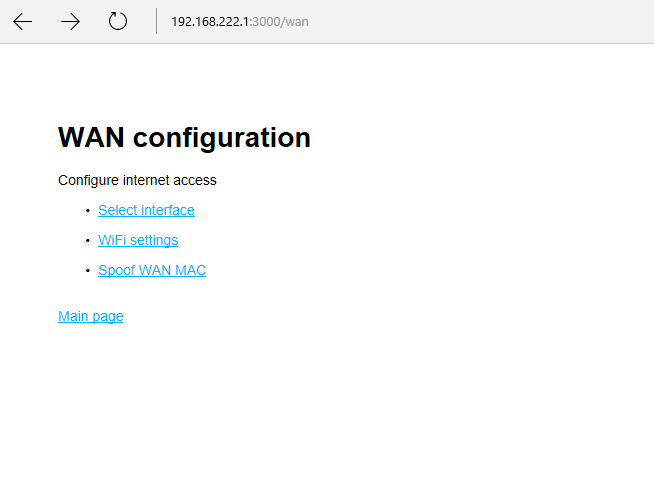
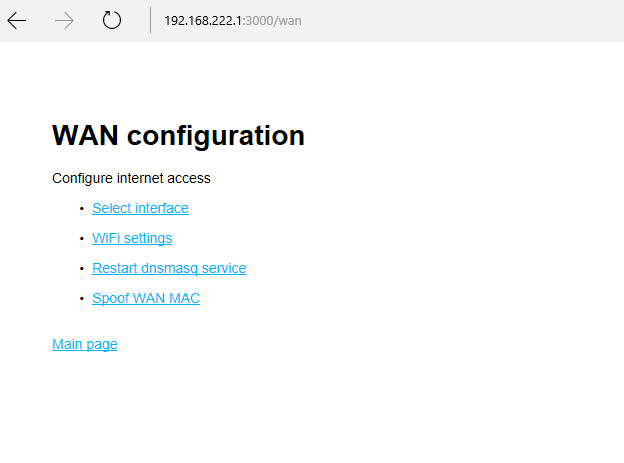
Documentation update

diff --git a/doc/02-tbng-user_guide_RU.md b/doc/02-tbng-user_guide_RU.md
@@ -125,6 +125,7 @@ TOR можно настроить для "обхода" нежелательны
 ### WAN settings
 
 В этом разделе можно настроить подключение к WiFi (в случае, если используется беспроводной интерфейс), переключиться на другой интернет-канал, а также подменить mac-адрес сетевой карты для доступа в Интернет, если, конечно система поддерживает такую возможность.
+Доступна опция перезапуска сервиса DNS — иногда это требуется для восстановления функциональности DNS при переключении сетей или первом соединении.
 
 ![Настройки доступа WAN в TBNG](images/image_10.png)
 
@@ -169,6 +170,13 @@ TOR можно настроить для "обхода" нежелательны
 ![Соединение с сетью WiFi в TBNG](images/image_14.png)
 
 Network Manager по умолчанию запоминает соединение и при перезагрузке устройства оно должно быть восстановлено автоматически.
+
+#### Restart dnsmasq service
+
+Перезапускает сервис dnsmasq на устройстве. Требуется для сброса кэша DNS. Пример — подключились к сети, в которой используется captive portal с именем хоста, недоступный для глобального DNS (например "supercofeshop.local").
+После сброса имя должно "резолвится" штатно. Рекомендуется делать после соединения устройства с новой сетью или после включения.
+
+![Перезапуск dnsmasq](images/image_19.png)
 
 #### Spoof WAN Mac
 

diff --git a/doc/03-tbng-troubleshooting_and_faq_RU.md b/doc/03-tbng-troubleshooting_and_faq_RU.md
@@ -244,3 +244,10 @@ wifi.scan-rand-mac-address=no
 
 Более развернутый — Ralink 2800 не доставлял никаких хлопот, работал во всех режимах, переживал подмену mac-адреса (везде, кроме Ubuntu 16.04 из-за её Network Manager). Однако, копеечный Realtek 8192CU, 8188CUS позволил обойтись одним адаптером, ибо работал в [Concurrent Mode](http://znoxx.me/2017/09/09/dvukhgholovyi-realtek/). Всё зависит от ваших целей и задач.
 
+#### После соединеня с WiFi не открывается captive portal — пишет, что сервер не найден.
+
+Сбросьте кэш DNS в настройках WAN (перезапустите dnsmasq).
+
+Такое может произойти, если вы соединяетесь с сетью, в которой captive portal открывается не по адресу, а по имени, например "supercoffeshop.local". Такое имя недоступно в глобальном DNS, так что нужно перезапустить dnsmasq, чтобы обновить данные с локального DNS сервера.
+
+

diff --git a/doc/02-tbng-user_guide_EN.md b/doc/02-tbng-user_guide_EN.md
@@ -125,6 +125,7 @@ Configuration is saved between reboots.
 ### WAN settings
 
 In this section, you can set up a connection to WiFi (if you are using a wireless interface), switch to another Internet channel, and also spoof the MAC-address of the network card for Internet access, if, of course, the system supports this option.
+An option to restart DNS service is available — sometimes it is required to allow correct DNS functionality after network switch/connect.
 
 ![WAN settings in TBNG](images/image_10.png)
 
@@ -169,6 +170,13 @@ By clicking on the network name, a dialog appears where you need to enter the pa
 ![WiFi connection in TBNG](images/image_14.png)
 
 Network Manager remembers the connection by default and when device is rebooted it must be restored automatically.
+
+#### Restart dnsmasq service
+
+Restarts dnsmasq service on device. Required to reset DNS cache. Let's consider an example — one connected to a network with a  captive portal with a hostname, which is note available in global DNS (for example, "supercofeshop.local").
+After restart name should be resolved normally. It is recommended to reset cache after network switch or on initial connect after device start.
+
+![Restart dnsmasq](images/image_19.png)
 
 #### Spoof WAN Mac
 

diff --git a/doc/03-tbng-troubleshooting_and_faq_EN.md b/doc/03-tbng-troubleshooting_and_faq_EN.md
@@ -244,3 +244,10 @@ General answer — one which will work with your kernel.
 
 Little bit more details — Ralink 2800 worked in all modes, survived MAC spoofing (everywhere except Ubuntu 16.04 due to Network Manager). On the other hand dirt-cheap Realtek 8192CU, 8188CUS allowed to use only one NIC in system, since it utilized [Concurrent Mode](http://znoxx.me/2017/09/09/dvukhgholovyi-realtek/). It all depends on your goals.
 
+#### Cannot open  captive portal after WiFi connection — server not found.
+
+Reset DNS cache in WAN settings  (restart dnsmasq).
+
+This may happen, if you connect to network, where captive portal is opened by name, but not an address, for example "supercoffeshop.local". Name is not available in global DNS, so dnsmasq restart required to renew DNS data from local service.
+
+

diff --git a/WHATSNEW.md b/WHATSNEW.md
@@ -1,5 +1,28 @@
 # Version history
 
+## 14-Nov-2017
+
+Added functionality to reset DNS cache. Needed when switchig between WAN networks.
+
+Changed settings for dnsmasq: expected effect is to have google dns and fallback to local provider dns on resolution failure (e.g. captive portals with local names).
+
+Upgrade path:
+
+In tbng folder: git pull, then reconfigure dnsmasq with option "-s none", but same interface and parameters of IP. It will update config file.
+
+Manual update of dnsmasq.conf:
+
+Replace string (including comment):
+
+```
+server=8.8.8.8 #Change this to your favourite public dns server, if needed
+```
+to:
+```
+server=#
+server=8.8.8.8
+```
+
 ## 30-Oct-2017
 
 TOR troubleshooting section updated in documentation, thanks to user feedback.
